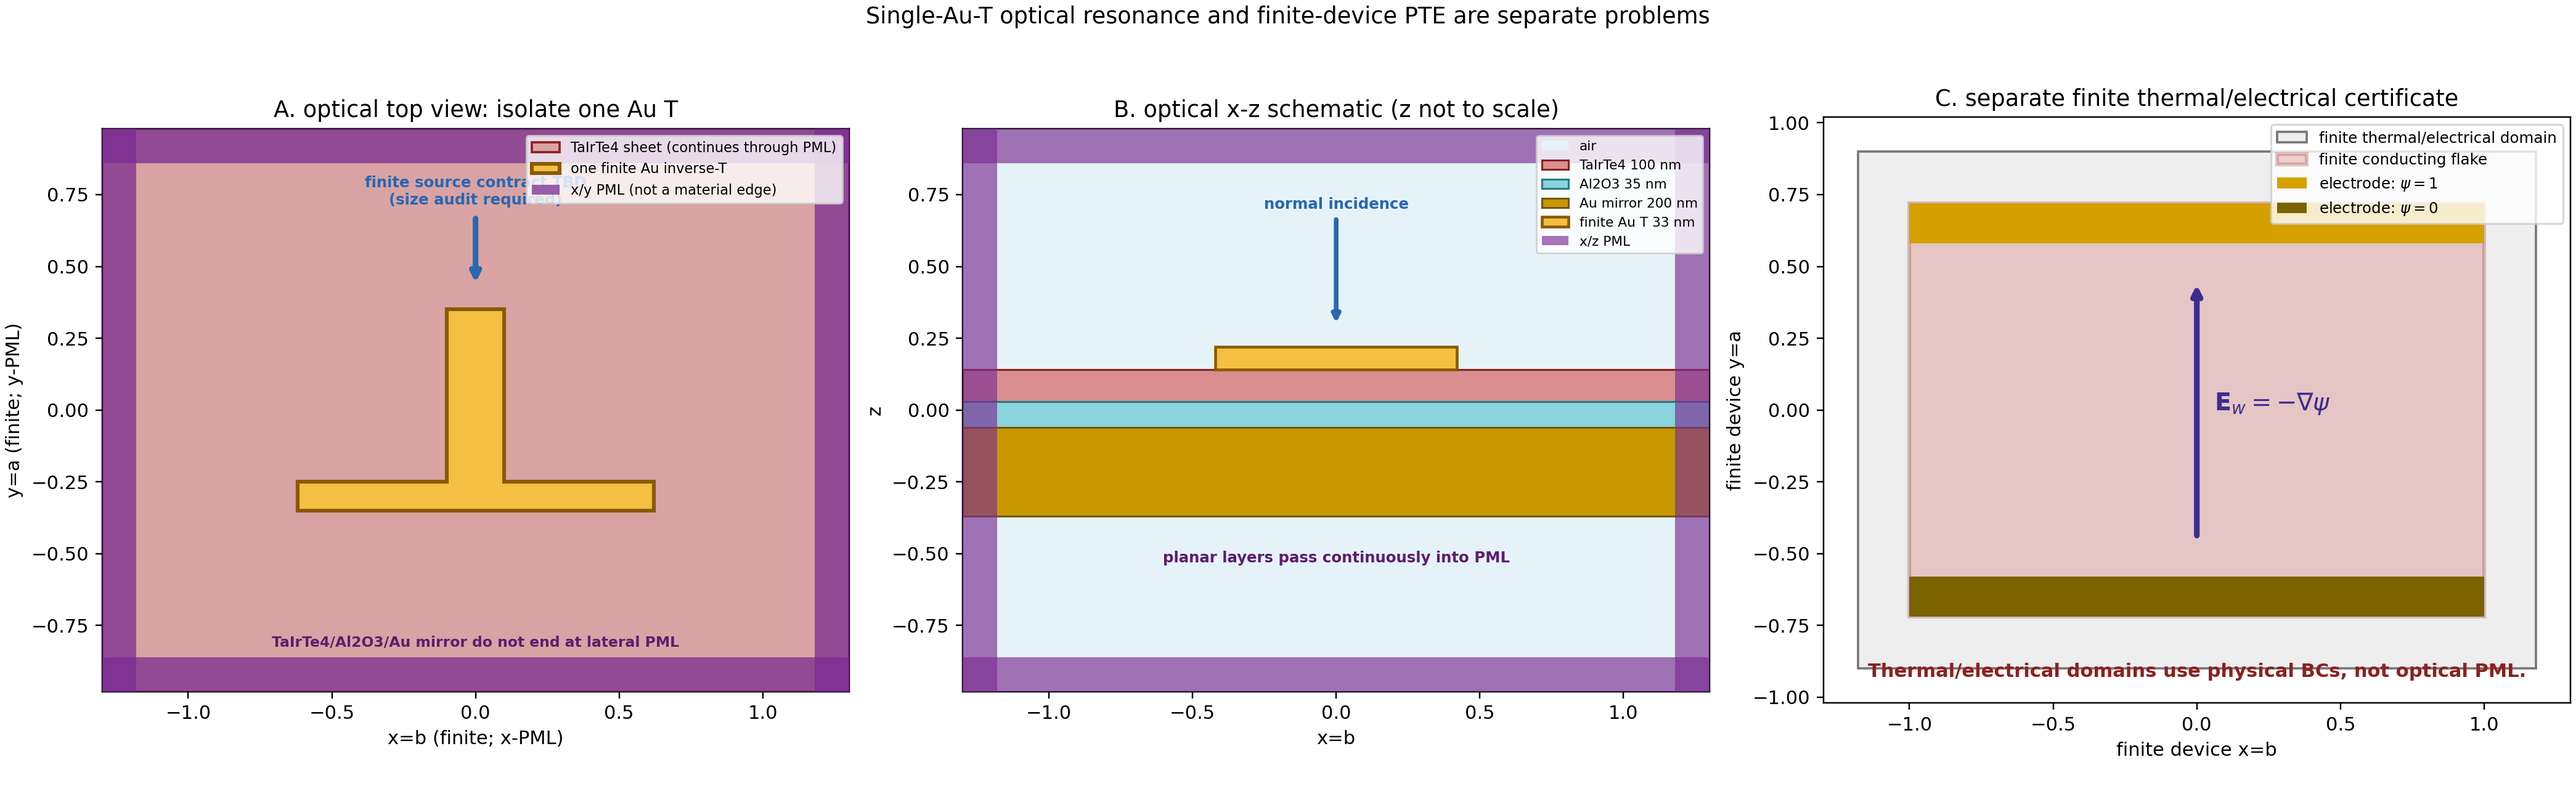
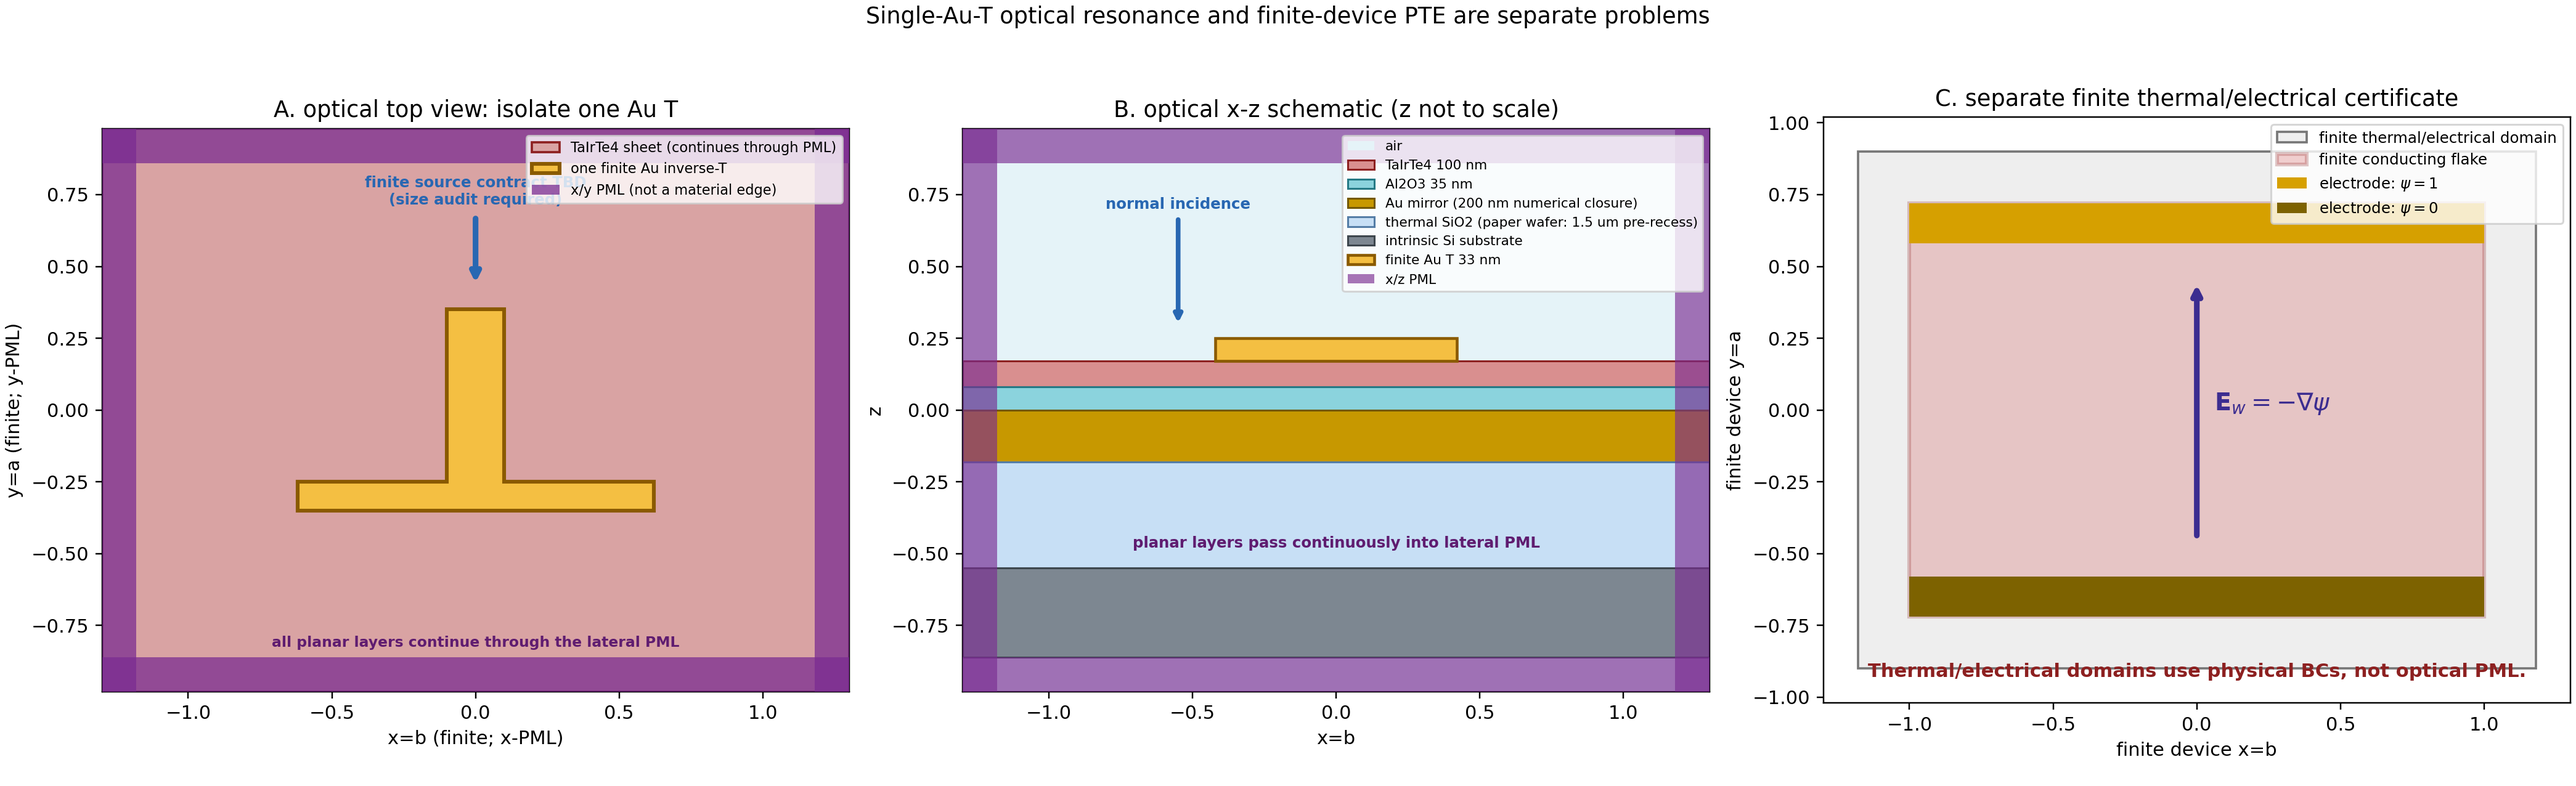
Add physical oxide and silicon below Au mirror

diff --git a/photothermal_pte/optimization_runs/au_on_fixed_tairte4_validation/paper_architectures/13_publish_periodic_and_finite_scope_materials.py b/photothermal_pte/optimization_runs/au_on_fixed_tairte4_validation/paper_architectures/13_publish_periodic_and_finite_scope_materials.py
@@ -187,7 +187,7 @@ def finite_scope_figure(path: Path) -> None:
             weight="bold")
     ax.annotate("", xy=(0, 0.43), xytext=(0, 0.68),
                 arrowprops={"arrowstyle": "->", "lw": 3, "color": "#2867b2"})
-    ax.text(0, -0.81, "TaIrTe4/Al2O3/Au mirror do not end at lateral PML",
+    ax.text(0, -0.81, "all planar layers continue through the lateral PML",
             ha="center", va="center", fontsize=7.7, color="#5f1c70",
             weight="bold")
     ax.set_xlim(-1.3,1.3); ax.set_ylim(-0.98,0.98); ax.set_aspect("equal")
@@ -201,16 +201,22 @@ def finite_scope_figure(path: Path) -> None:
     ax.add_patch(Rectangle((-1.30, -0.98), 2.60, 1.96,
                            facecolor="#e5f3f8", edgecolor="none",
                            label="air"))
-    ax.add_patch(Rectangle((-1.30, 0.03), 2.60, 0.11,
+    ax.add_patch(Rectangle((-1.30, 0.08), 2.60, 0.09,
                            facecolor="#d98f8f", edgecolor="#8d2020",
                            label="TaIrTe4 100 nm"))
-    ax.add_patch(Rectangle((-1.30, -0.06), 2.60, 0.09,
+    ax.add_patch(Rectangle((-1.30, 0.00), 2.60, 0.08,
                            facecolor="#8bd3dd", edgecolor="#257985",
                            label="Al2O3 35 nm"))
-    ax.add_patch(Rectangle((-1.30, -0.37), 2.60, 0.31,
+    ax.add_patch(Rectangle((-1.30, -0.18), 2.60, 0.18,
                            facecolor="#c79800", edgecolor="#745800",
-                           label="Au mirror 200 nm"))
-    ax.add_patch(Rectangle((-0.42, 0.14), 0.84, 0.08,
+                           label="Au mirror (200 nm numerical closure)"))
+    ax.add_patch(Rectangle((-1.30, -0.55), 2.60, 0.37,
+                           facecolor="#c7dff5", edgecolor="#547da6",
+                           label="thermal SiO2 (paper wafer: 1.5 um pre-recess)"))
+    ax.add_patch(Rectangle((-1.30, -0.86), 2.60, 0.31,
+                           facecolor="#7d8791", edgecolor="#3d464d",
+                           label="intrinsic Si substrate"))
+    ax.add_patch(Rectangle((-0.42, 0.17), 0.84, 0.08,
                            facecolor="#f4bf42", edgecolor="#8a5a00",
                            lw=1.5, label="finite Au T 33 nm"))
     ax.add_patch(Rectangle((-1.30, -0.98), 0.12, 1.96,
@@ -222,10 +228,10 @@ def finite_scope_figure(path: Path) -> None:
                            facecolor=pml_color, alpha=0.65, zorder=5))
     ax.add_patch(Rectangle((-1.30, 0.86), 2.60, 0.12,
                            facecolor=pml_color, alpha=0.65, zorder=5))
-    ax.annotate("normal incidence", xy=(0,0.29), xytext=(0,0.70),
+    ax.annotate("normal incidence", xy=(-0.55,0.29), xytext=(-0.55,0.70),
                 ha="center", color="#2867b2", fontsize=8, weight="bold",
                 arrowprops={"arrowstyle":"->","lw":2.5,"color":"#2867b2"})
-    ax.text(0, -0.53, "planar layers pass continuously into PML",
+    ax.text(0, -0.48, "planar layers pass continuously into lateral PML",
             ha="center", color="#5f1c70", fontsize=8, weight="bold")
     ax.set_xlim(-1.3,1.3); ax.set_ylim(-0.98,0.98); ax.set_aspect("equal")
     ax.set_title("B. optical x-z schematic (z not to scale)")

diff --git a/photothermal_pte/optimization_runs/au_on_fixed_tairte4_validation/paper_architectures/results_actual_metasurfaces/meeting_plot_package/PERIODIC_VS_FINITE_SCOPE.md b/photothermal_pte/optimization_runs/au_on_fixed_tairte4_validation/paper_architectures/results_actual_metasurfaces/meeting_plot_package/PERIODIC_VS_FINITE_SCOPE.md
@@ -56,6 +56,24 @@ subsequent finite physical-device model must add:
    terminals and insulating non-contact flake edges;
 10. the full terminal current integral over the finite TaIrTe4 volume.
 
+## Substrate below the Au mirror
+
+The fabricated 2024 device wafer is intrinsic Si with 1.5 um of thermally
+grown SiO2 before the reflector recess is etched and filled with Au.  A
+physical full-stack schematic must therefore show thermal SiO2 and intrinsic
+Si below the Au mirror; the region below the mirror is not air.
+
+The four existing optical-forward artifacts did **not** include that physical
+substrate.  They extended Au from the nominal backplane surface through the
+bottom PML as an explicit opaque numerical closure.  This is acceptable only
+as an optical-above-an-opaque-mirror control.  It must not be presented as the
+fabricated substrate or reused as a thermal model.  The next physical-stack
+check must terminate the Au mirror, place thermal SiO2 and intrinsic Si below
+it, and put the bottom z-PML inside the continuing Si substrate.  Because the
+Au mirror is optically opaque, the old and physical-substrate optical results
+are expected to be close, but that equivalence still requires a matched
+numerical comparison rather than an assumption.
+
 The finite source type and size are not yet selected.  A Gaussian is allowed
 only if its realized waist and boundary intensity are measured in a domain
 large enough that the field is negligible before the lateral PML.  At the
